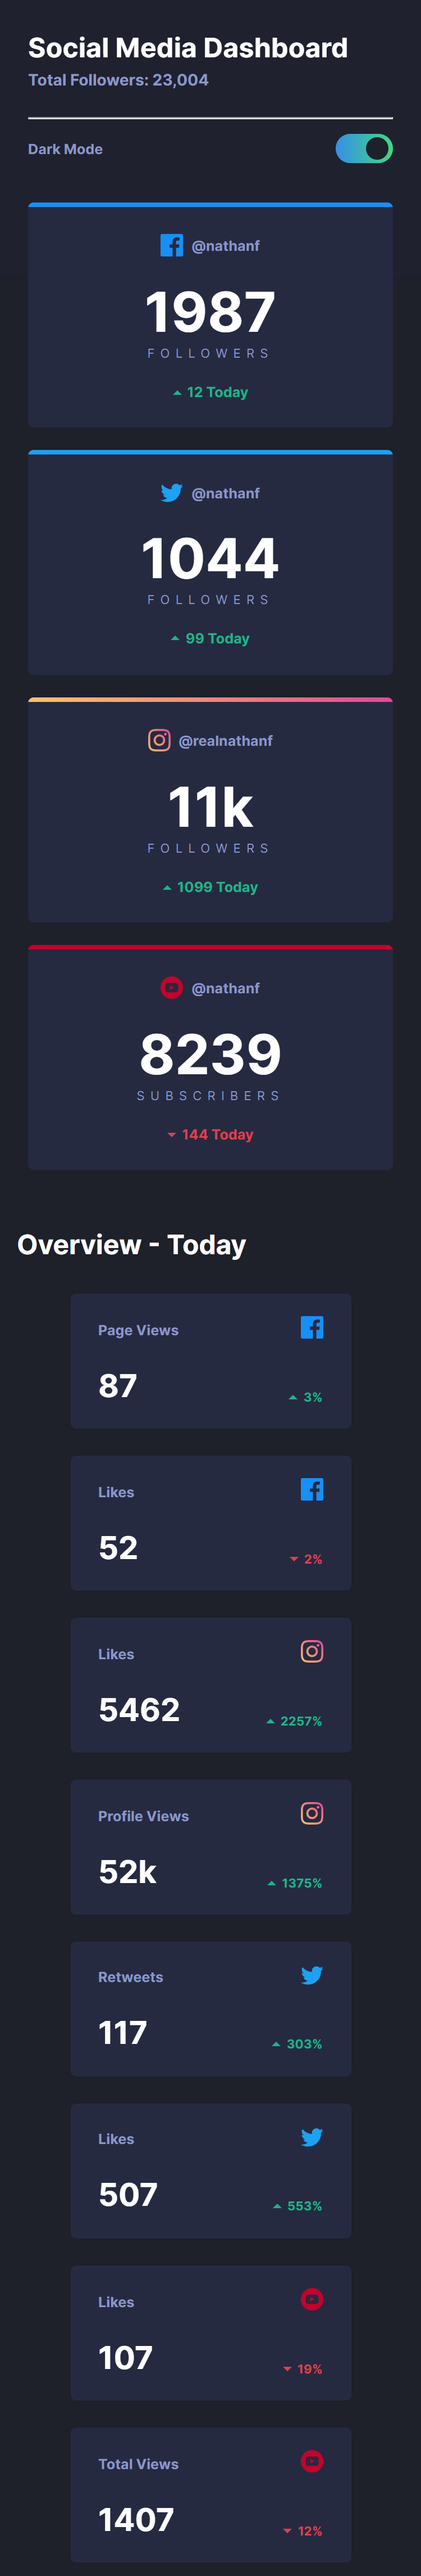
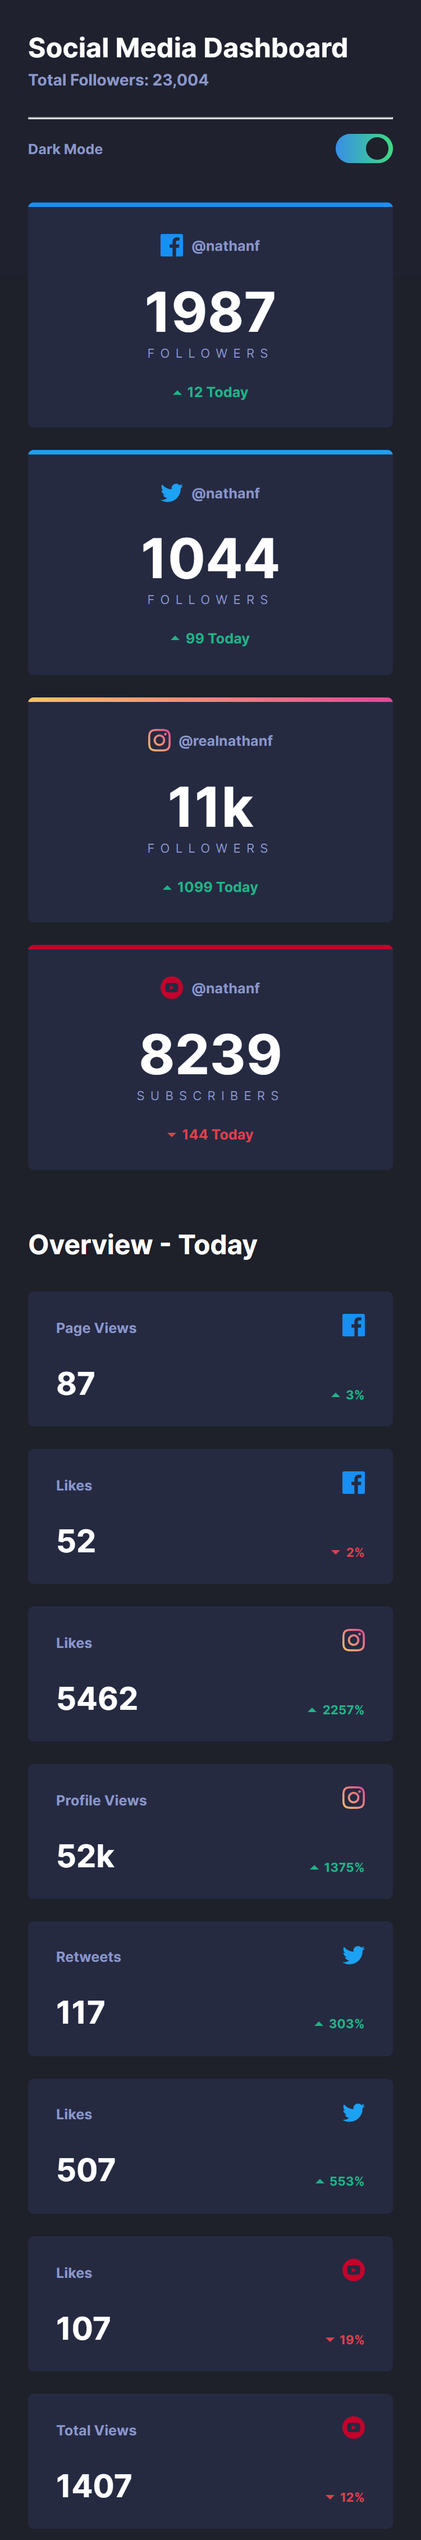
fix

diff --git a/style.css b/style.css
@@ -282,6 +282,9 @@ hr {
 }
 
 @media (max-width: 550px) {
+  h2 {
+    margin-left: 25px;
+  }
   header {
     flex-wrap: wrap;
     margin: 2rem 0 0 0;
@@ -306,7 +309,8 @@ hr {
 }
 
 @media (max-width: 375px) {
-  .CardSocial {
+  .CardSocial,
+  .CardOverview {
     width: 100%;
     margin: 10px 25px;
   }
